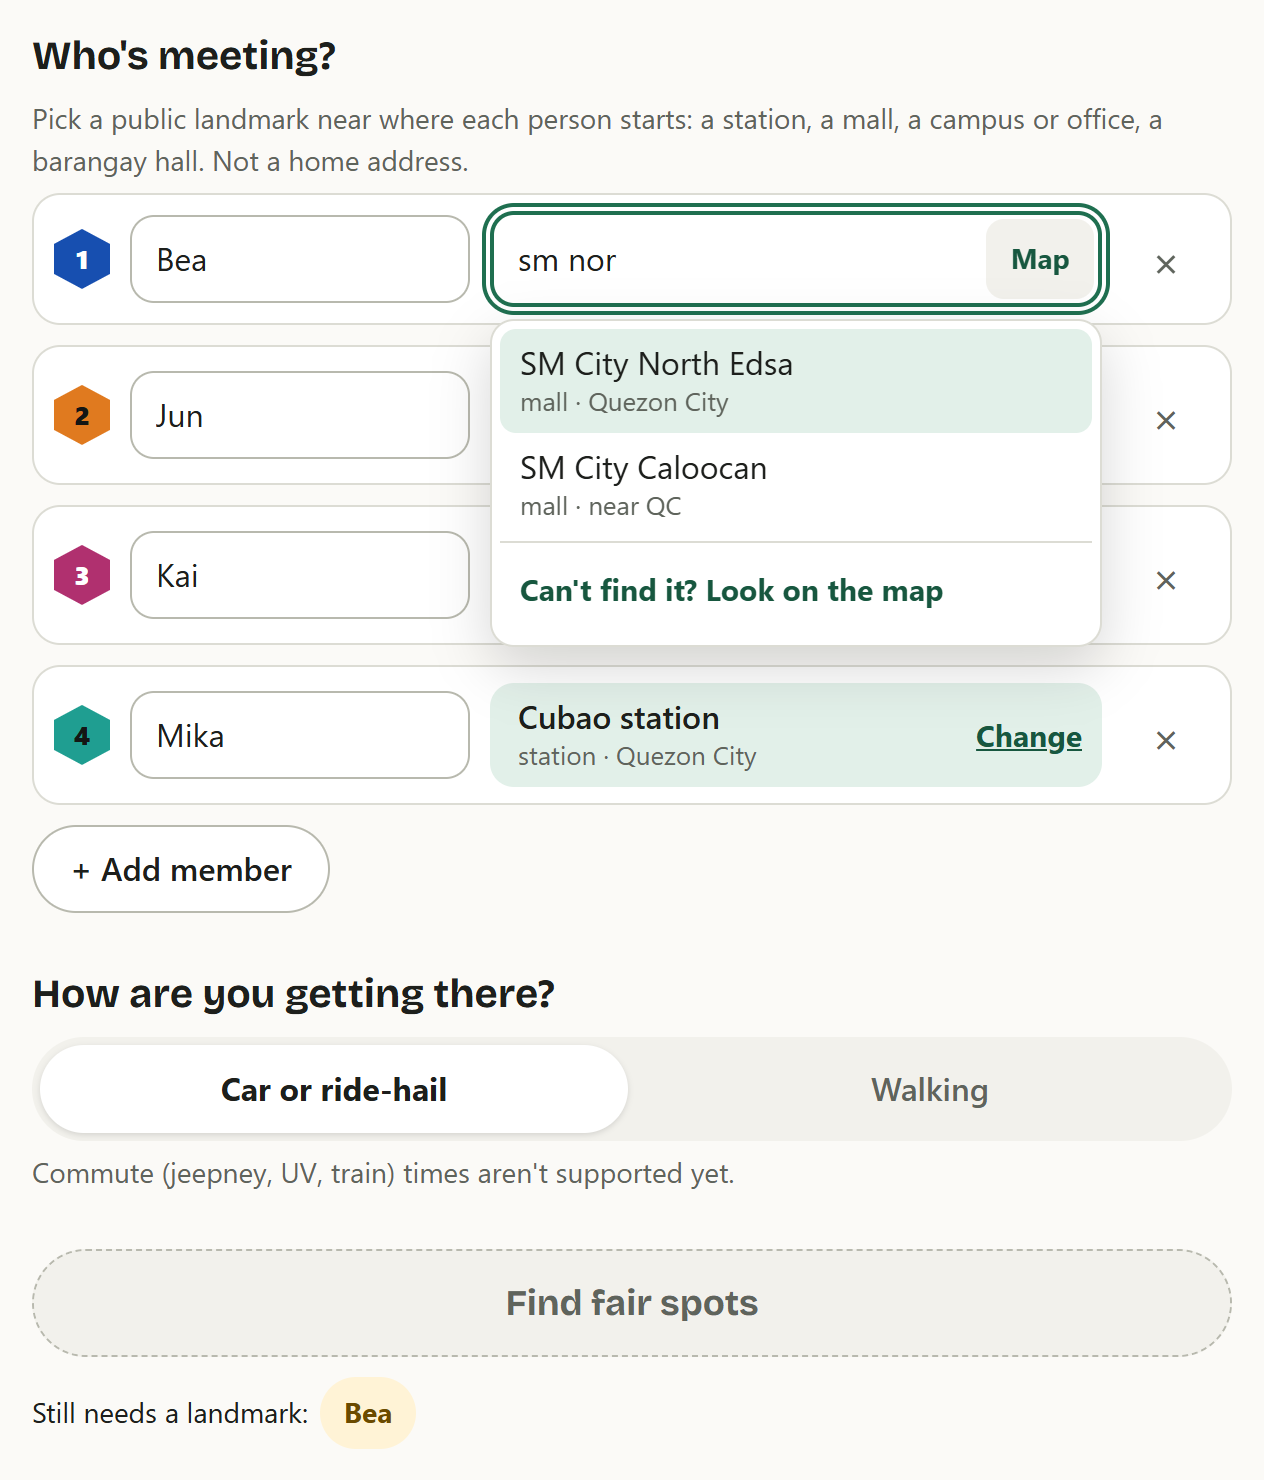
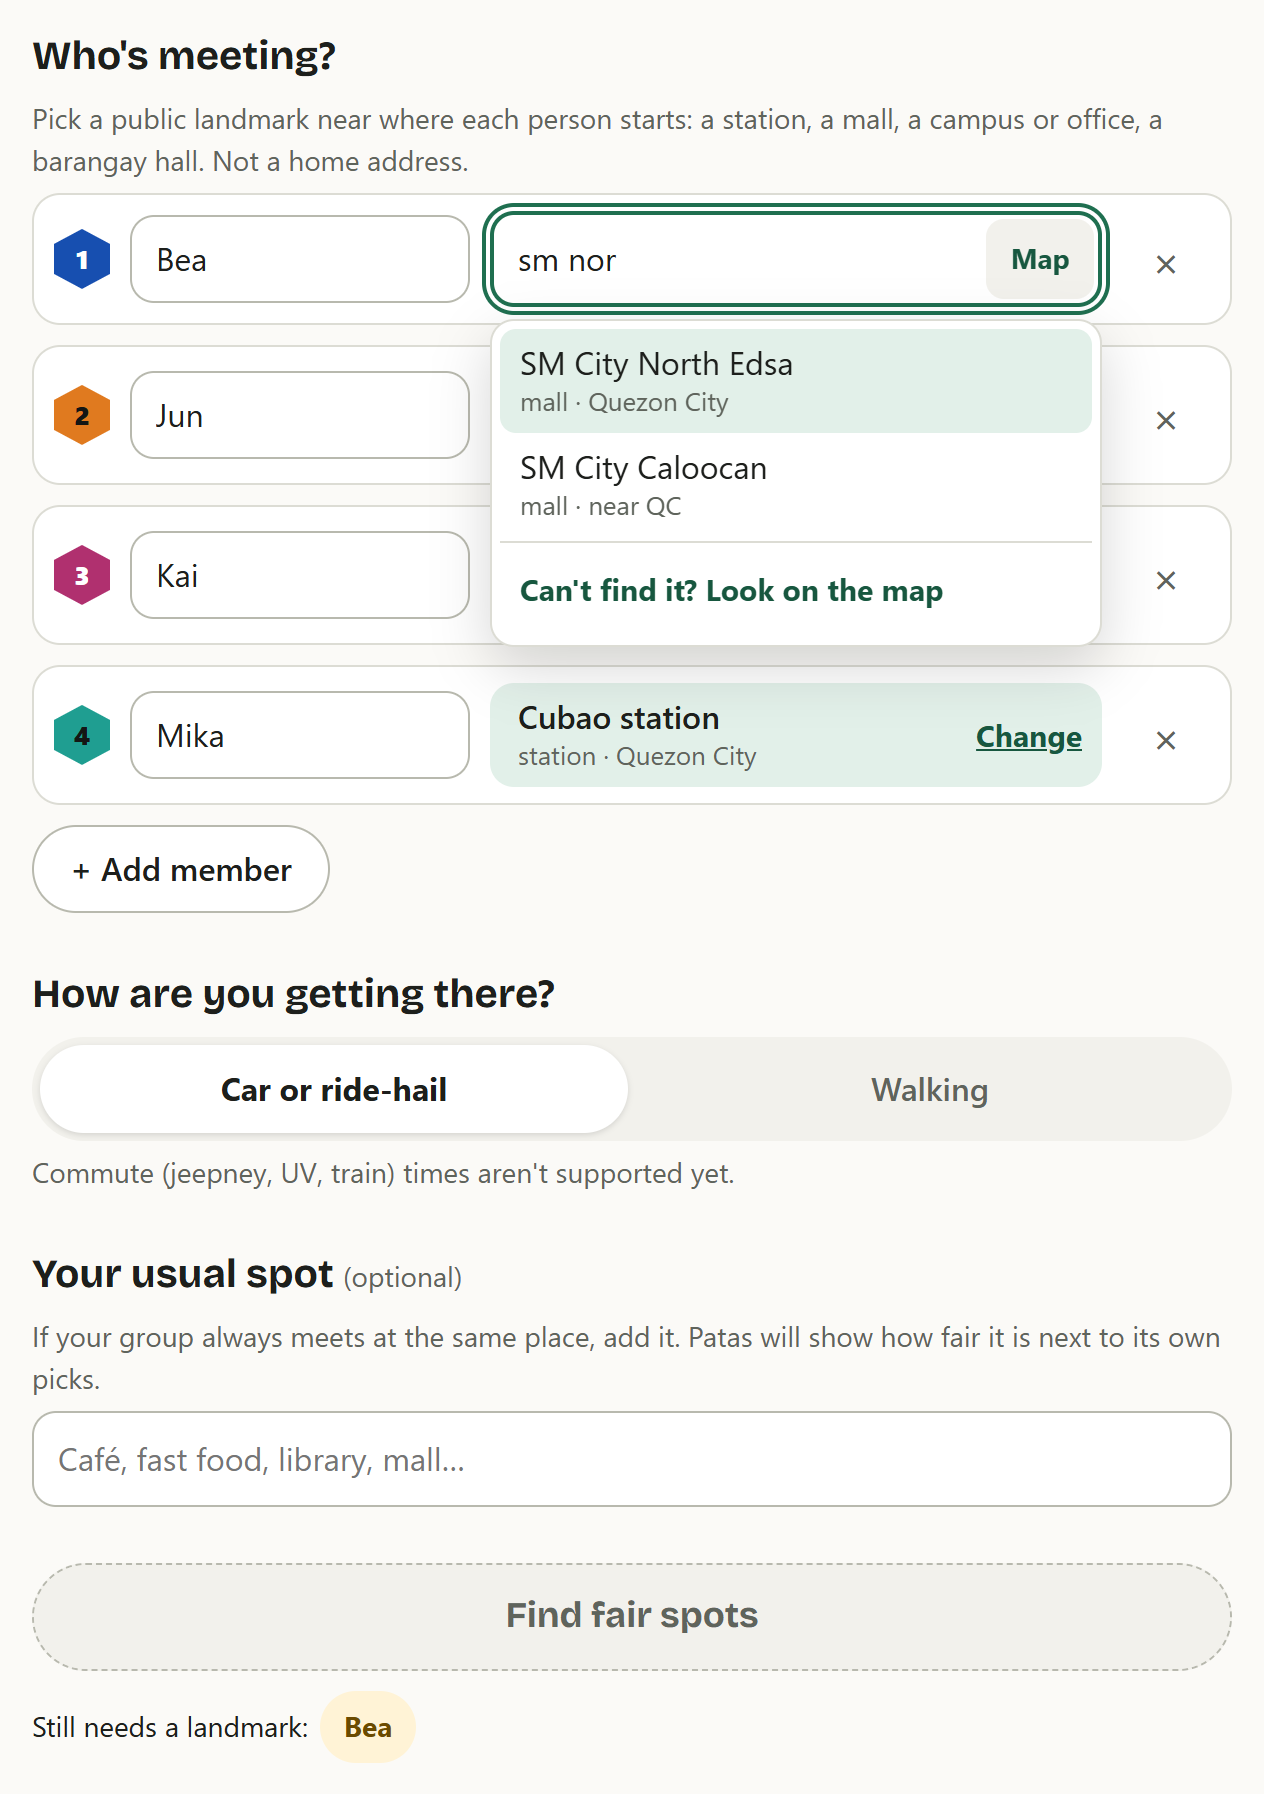
Review fixes and screenshots for the usual spot
Disclose the new analytics event on the privacy page and README; pick the
test's far venue at run time instead of hard-coding a snapshot id; add a
usual-spot README screenshot (6-usual-spot.png) and regenerate the rest.

diff --git a/scripts/screenshots.ts b/scripts/screenshots.ts
@@ -30,8 +30,8 @@ async function pickLandmark(page: Page, row: number, q: string, pick: string) {
   await page.getByRole("option").filter({ hasText: pick }).first().click();
 }
 
-/** Fill the form; leave member 1's search open if `stopAtSearch`. */
-async function fillGroup(page: Page, stopAtSearch: boolean) {
+/** Fill the form; leave member 1's search open if `stopAtSearch`. Optionally name a usual spot. */
+async function fillGroup(page: Page, stopAtSearch: boolean, usual?: { q: string; pick: string }) {
   await page.goto(BASE);
   for (let i = 2; i < GROUP.length; i++) await page.getByRole("button", { name: "+ Add member" }).click();
   for (let i = 0; i < GROUP.length; i++) {
@@ -42,6 +42,10 @@ async function fillGroup(page: Page, stopAtSearch: boolean) {
   await page.getByRole("option").first().waitFor();
   if (stopAtSearch) return;
   await page.getByRole("option").filter({ hasText: GROUP[0].pick }).first().click();
+  if (usual) {
+    await page.getByRole("combobox", { name: "Your usual spot" }).fill(usual.q);
+    await page.getByRole("option").filter({ hasText: usual.pick }).first().click();
+  }
   await page.getByRole("button", { name: "Find fair spots" }).click();
   await page.locator(".venue").first().waitFor();
   await waitForMap(page);
@@ -100,6 +104,16 @@ await withPage(
     await fillGroup(page, false);
     await page.locator(".map").scrollIntoViewIfNeeded();
     await shotBetween(page, ".map", ".venue >> nth=0", `${OUT}/3-phone-dark.png`, 8);
+  },
+);
+
+await withPage(
+  browser,
+  { viewport: { width: 390, height: 844 }, deviceScaleFactor: 3, isMobile: true, hasTouch: true, colorScheme: "light" },
+  async (page) => {
+    await fillGroup(page, false, { q: "jollibee cubao", pick: "Jollibee" });
+    await page.locator(".usual").waitFor();
+    await shotBetween(page, ".results-head", ".venue >> nth=0", `${OUT}/6-usual-spot.png`, 8);
   },
 );
 

diff --git a/src/lib/venues.test.ts b/src/lib/venues.test.ts
@@ -4,6 +4,8 @@ import { gridRingUnsafe } from "h3-js";
 import { cellCenter } from "./h3.ts";
 import { indexVenues, searchVenues } from "./venues.ts";
 import { meet, placeUsual } from "./meet.ts";
+import { loadVenueSnapshot } from "./candidates.ts";
+import { venueInScope } from "./scope.ts";
 import type { Landmark } from "./landmarks.ts";
 import type { Venue, VenueScore } from "./types";
 
@@ -44,8 +46,11 @@ test("meet always ranks the usual spot, even when it isn't in the top five", asy
       { memberId: "m2", cell: KATIPUNAN },
       { memberId: "m3", cell: CUBAO },
     ];
-    // A real snapshot venue far north of everyone, so it can't make the top five.
-    const usual = "osm:node/14073004991"; // Bulalohan sa Fairview
+    // The northernmost venue in the snapshot, far from everyone, so it can't make the top five.
+    // Picked at run time so a snapshot rebuild can't break the test.
+    const usual = loadVenueSnapshot()
+      .filter((v) => venueInScope(v.location))
+      .reduce((a, b) => (b.location.lat > a.location.lat ? b : a)).venueId;
     const { status, body } = await meet({ origins, mode: "WALK", usual });
     assert.equal(status, 200);
     const u = body.usual as { venueId: string; rank: number; of: number; worst: number; perMember: unknown[] };

diff --git a/src/app/privacy/page.tsx b/src/app/privacy/page.tsx
@@ -63,7 +63,7 @@ export default function Privacy() {
         </li>
         <li>The hosting company (Vercel) keeps standard request logs, such as page addresses and IP addresses, for a limited time.</li>
         <li>
-          Page views and a few anonymous actions (a search was run, a group was created, someone joined, a landmark was picked from the map) are counted with
+          Page views and a few anonymous actions (a search was run, a group was created, someone joined, a landmark was picked from the map, a usual spot was compared) are counted with
           GoatCounter, which uses no cookies. Like any website it loads from, it receives the page address (with group links
           shortened so it never sees which group), the previous page's address, your browser type, screen size and IP
           address. It never receives your nickname, landmark or results.

diff --git a/README.md b/README.md
@@ -40,6 +40,8 @@ Only the selected result is open, with everyone's minutes. The others show a *tr
 
 Groups are creatures of habit, so there's an optional **Your usual spot** field. Search for the place you always go to (each result names its nearest landmark, so "jollibee cubao" finds the right branch), and Patas ranks it alongside its own picks without changing the order: "Your usual spot, Jollibee, ranks 22nd of 25. Its longest trip is 27 min (Kai), 11 min more than the top pick." If the usual spot is already the fairest, it says so.
 
+<img src="docs/screenshots/6-usual-spot.png" alt="Your usual spot, Jollibee, ranks 22nd of 25, with its trip strip above the top pick" width="320">
+
 <img src="docs/screenshots/3-phone-dark.png" alt="The same results on a phone in dark mode" width="320">
 
 The screenshots use real OpenRouteService driving times, which assume clear roads. Next to each driving time, Patas shows a rough rush-hour range of 1.5 to 2 times that figure. The range comes from the [TomTom Traffic Index](https://www.tomtom.com/traffic-index/) averages for Metro Manila (about 21 km/h overall, 19 km/h at rush hour, against the 26–37 km/h that OpenRouteService implies across QC). It's a city-wide average, not live traffic, so it sets expectations without changing the ranking. Patas is for planning a meeting ahead of time, not live navigation.
@@ -59,7 +61,7 @@ Patas was built for high school students, who are minors, so the design keeps ev
 - Each member's cell is stored encrypted (AES-256-GCM) with a key derived from that link key, which the server never stores. A copy of the database alone reveals no locations. The cell is decrypted only in memory while ranking, is never sent back to anyone, and is deleted 48 hours after joining.
 - On the single-phone planner, nicknames stay in the browser and the API sees `m1`, `m2`, and so on. With a group link, nicknames are stored so members can see who has joined, which is why the form asks for a nickname rather than a name.
 - Landmark search, candidate venues and map tiles are all served from local OpenStreetMap snapshots, so no third party sees what a member typed or which part of the city they're looking at.
-- Two outside services receive requests. The routing provider (openrouteservice) gets cell centres, not landmarks. [GoatCounter](https://www.goatcounter.com) counts page views and a few anonymous actions (a search, a group created, someone joined, a landmark picked from the map, feedback sent). It uses no cookies, and group pages are reported to it as `/g/_`, so it never learns which group.
+- Two outside services receive requests. The routing provider (openrouteservice) gets cell centres, not landmarks. [GoatCounter](https://www.goatcounter.com) counts page views and a few anonymous actions (a search, a group created, someone joined, a landmark picked from the map, a usual spot compared, feedback sent). It uses no cookies, and group pages are reported to it as `/g/_`, so it never learns which group.
 - Feedback is stored with the page path (no `?` or `#` part, group ids blanked) and the browser type, and deleted after 180 days.
 - The notice members actually read is at [/privacy](https://patas.ithinkandicode.space/privacy). It covers what's stored, for how long, and who sees what.
 - Nothing location-related is logged, and the only location data stored is those encrypted, expiring cells.
